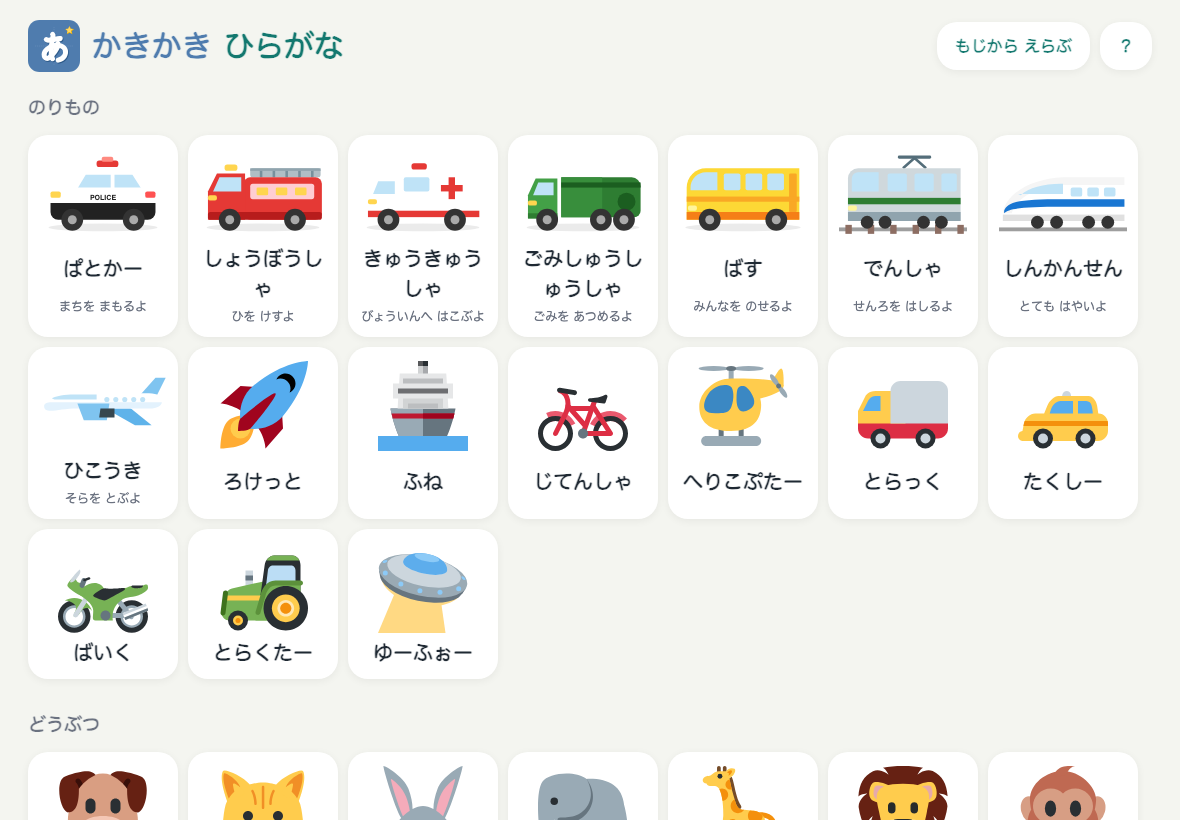
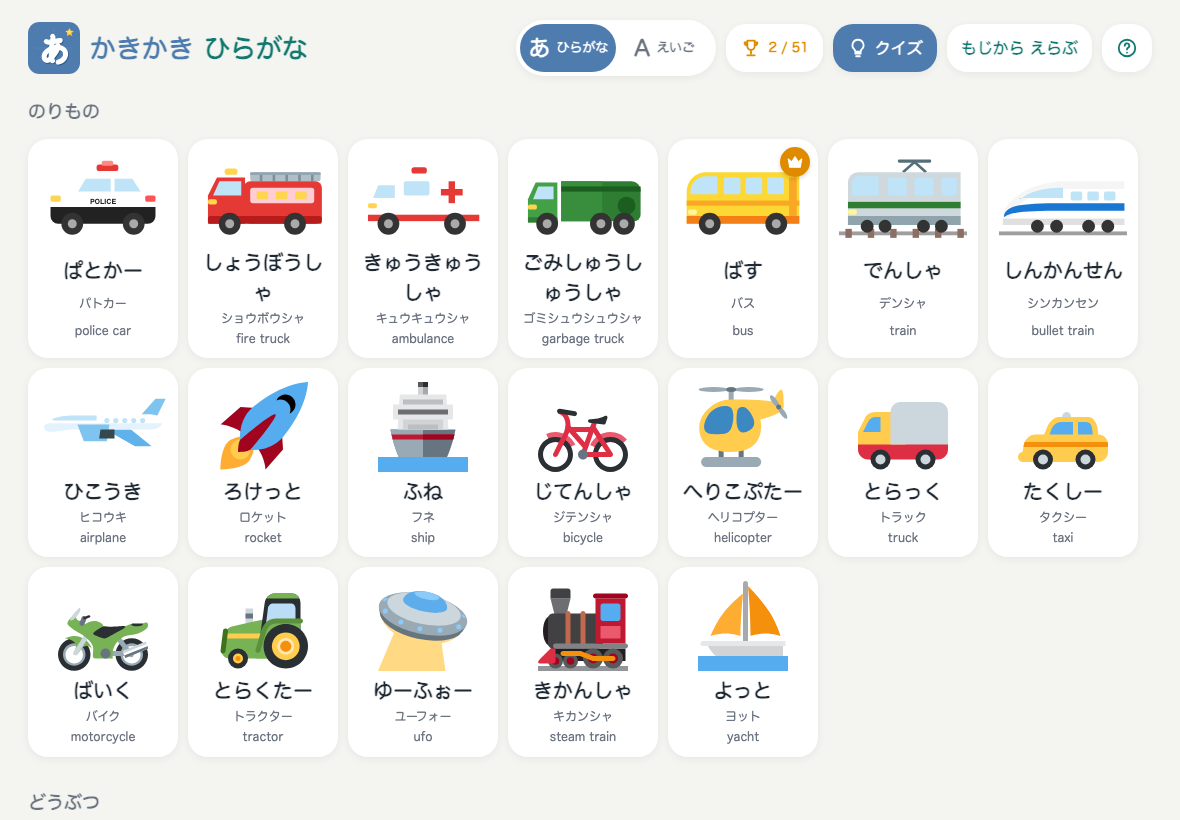
docs: README とスクリーンショットを最新の機能に合わせて更新

diff --git a/README.md b/README.md
@@ -1,10 +1,10 @@
 <p align="center">
-  <img src="static/logo.svg" alt="かきかき ひらがな" width="520">
+  <img src="static/logo.svg" alt="かきかき" width="520">
 </p>
 
 <p align="center">
-  iPad 横画面で使う、子ども向けのひらがな・アルファベット書き練習 PWA。<br>
-  好きな単語を選んで、なぞって、じぶんで書いて、星を集める。
+  iPad 横画面で使う、子ども向けの ひらがな・アルファベット 書き練習 PWA。<br>
+  好きな単語を選んで、なぞって、じぶんで書いて、クイズで遊んで、星とメダルを集める。
 </p>
 
 <p align="center">
@@ -17,19 +17,21 @@
 
 ![練習画面](docs/images/practice.png)
 
+![よみクイズ](docs/images/quiz.png)
+
 ## 特徴
 
-- **3 つのモード**
-  - なぞる: 色のついた丸から書き順どおりに指を動かす。線から外れるとやり直し。
-  - じぶんで かく: お手本の上に自由に書く。線の正確さと書き順で星 1〜3 を採点。
-  - おてほんなし: 十字のマス目だけで書く。81 文字のお手本と形を照合し、何の文字に見えるかを判定。合格で金の星。
-- **ひらがな と えいご**: ホーム上部のトグルで切り替え。同じ 210 語を日本語（81 文字）と英語（A〜Z・a〜z の 52 文字）で練習でき、記録・星・メダルはことばごとに別に保存。
-- **210 の単語、10 カテゴリ**: のりもの・どうぶつ・くだもの・やさい・たべもの・しぜん・からだ・きもち・みのまわり・あそび。文字一覧からは 81 文字を 1 文字ずつ練習できる。
-- **できた！を楽しむ演出**: 画を書き終えるとキラキラ、文字クリアで紙吹雪と星、単語クリアでイラストが画面を走り抜ける。
-- **クイズ**: よみクイズ（もじを見てイラストを選ぶ／イラストを見てもじを選ぶ、10 問）と かきクイズ（イラストを見てお手本なしで書く、5 問）。単語の文字数で かんたん・ふつう・むずかしい に分かれ、正解数を記録。
-- **めだる と きろく**: 文字・単語・カテゴリごとの進捗率と、42 個のメダル（行マスター、カテゴリはかせ、練習した日数など）。条件を満たした瞬間に練習画面でお知らせ。
-- **読み上げ**: 文字の読みと単語の名前を iPadOS の日本語音声で読み上げ。
-- **オフライン・広告なし・アカウントなし**: 練習記録は端末内の保存のみ。リセットは保護者向けの足し算ゲートの先にある。
+- **ひらがな と えいご**: ホーム上部のトグルで切り替え。画面の色が変わり、同じ 210 語を ひらがな（81 文字）と 英語（A〜Z・a〜z の 52 文字）で練習できる。記録・星・メダル・クイズの成績はことばごとに別に保存。
+- **3 つのモードで文字ごとに進む**: 単語の文字は左から順に解放され、1 文字ごとに なぞる（2 回）→ じぶんで かく → おてほんなし と自動で進む。
+  - なぞる: 黄色い線が書き順を見せたあと、番号の丸から線に沿って指を動かす。外れると振動してやり直し。
+  - じぶんで かく: 薄いお手本の上を自由に塗る。指を離しても続きが書け、線の正確さで星 1〜3 を採点。
+  - おてほんなし: 十字のマス目だけで書き、お手本と形を照合して何の文字に見えるかを判定。合格で金の星。
+- **210 の単語、10 カテゴリ**: のりもの・どうぶつ・くだもの・やさい・たべもの・しぜん・からだ・きもち・みのまわり・あそび。カードにはカタカナと英語（えいご では ひらがな）を併記。「もじから えらぶ」で 1 文字ずつの練習もできる。
+- **クイズ**: よみクイズ（もじを見てイラストを選ぶ／イラストを見てもじを選ぶ、10 問）と かきクイズ（イラストを見てお手本なしで書く、5 問）。単語の文字数で かんたん・ふつう・むずかしい の 3 段階。
+- **めだる と きろく**: 文字・単語・カテゴリごとの進捗率と、51 個のメダル（行マスター、カテゴリはかせ、クイズ、練習した日数など）。条件を満たした瞬間に練習画面でお知らせ。
+- **できた！を楽しむ演出**: 画を書き終えるとキラキラ、文字クリアで紙吹雪と星、単語クリアでイラストが画面を走り抜けて完了モーダル。
+- **読み上げ**: 「きく」ボタンで文字と単語を iPadOS の音声（日本語／英語）で読み上げ。音声はこのボタンでしか流れない。
+- **オフライン・広告なし・アカウントなし**: 文字・イラスト・効果音は端末内に保存され、練習記録も端末内のみ。記録の削除は保護者向けの掛け算ゲート（1 日 3 回まで）の先にある。
 
 ## iPad で使う
 
@@ -37,9 +39,9 @@
 2. 共有 → 「ホーム画面に追加」
 3. ホーム画面のアイコンから起動し、横向きで使う
 
-更新を公開したあと、iPad 側は 2 回目の起動で新しいバージョンに切り替わる。
+新しいバージョンは 2 回目の起動で切り替わる。すぐ反映したいときは「アプリについて」の「最新版に更新」を押す。
 
 ## クレジット
 
-- 書き順データ: [KanjiVG](https://kanjivg.tagaini.net)（CC BY-SA 3.0）
-- イラスト: [Twemoji](https://github.com/jdecked/twemoji)（CC BY 4.0）。乗り物 8 種は自作
+- 書き順データ（ひらがな）: [KanjiVG](https://kanjivg.tagaini.net)（CC BY-SA 3.0）。アルファベットは自作
+- イラスト: [Twemoji](https://github.com/jdecked/twemoji)（CC BY 4.0）。乗り物 8 種、うどん、かぶとむし、たこ、いか、めろん、つみき は自作
